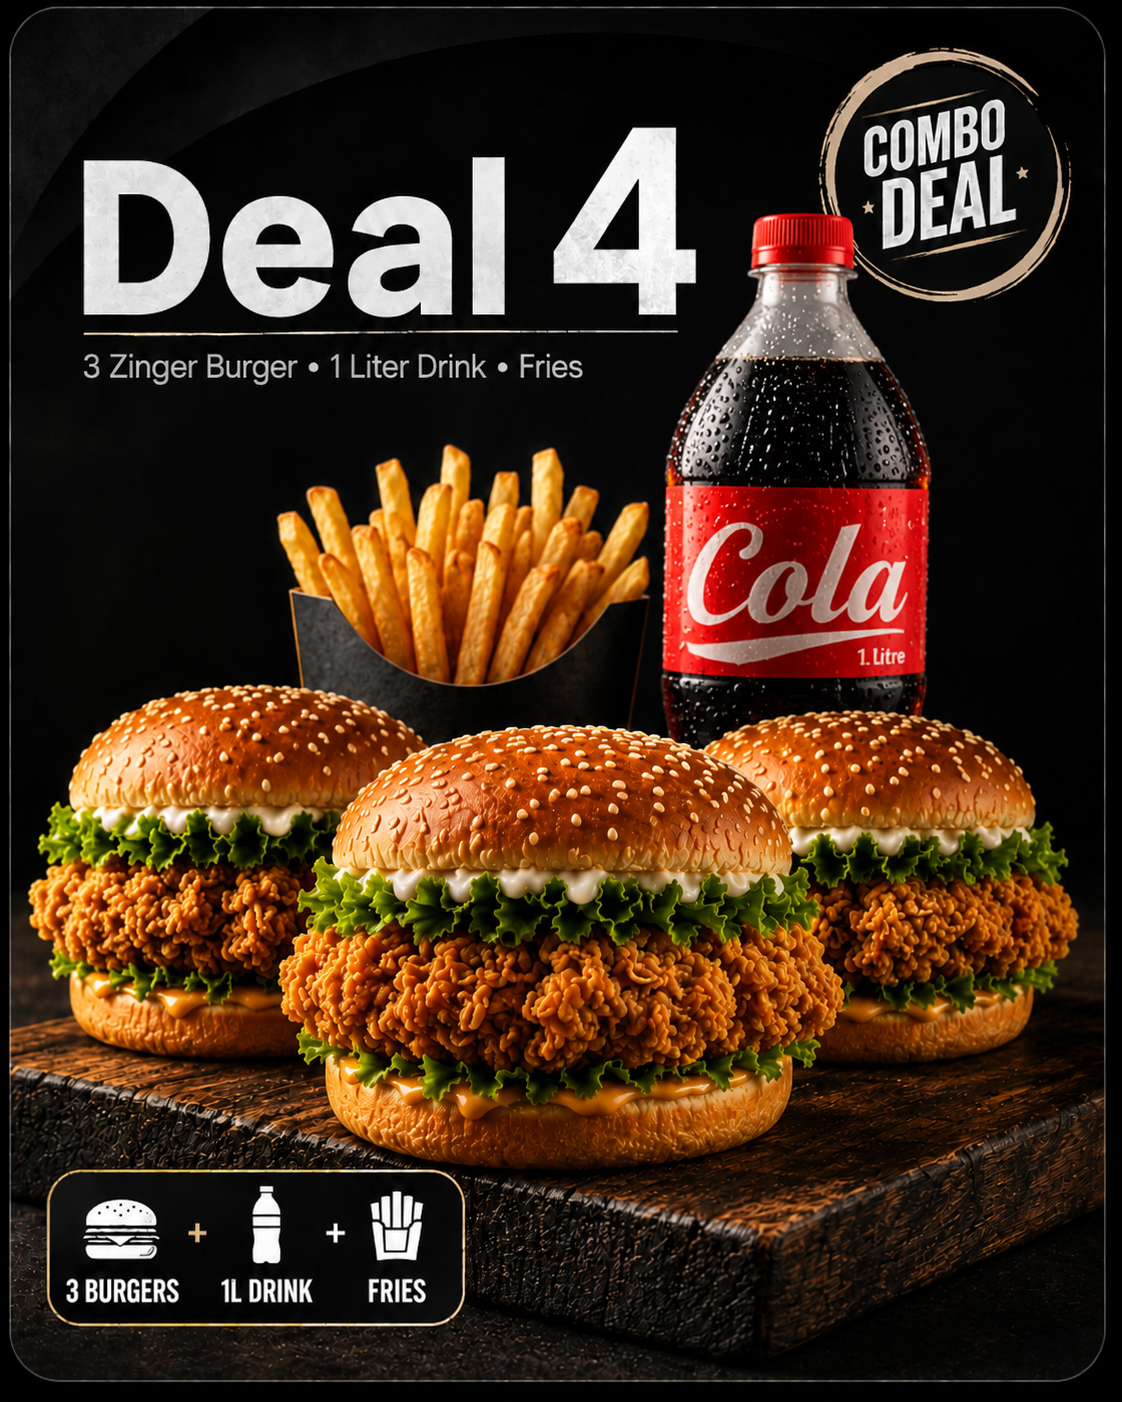
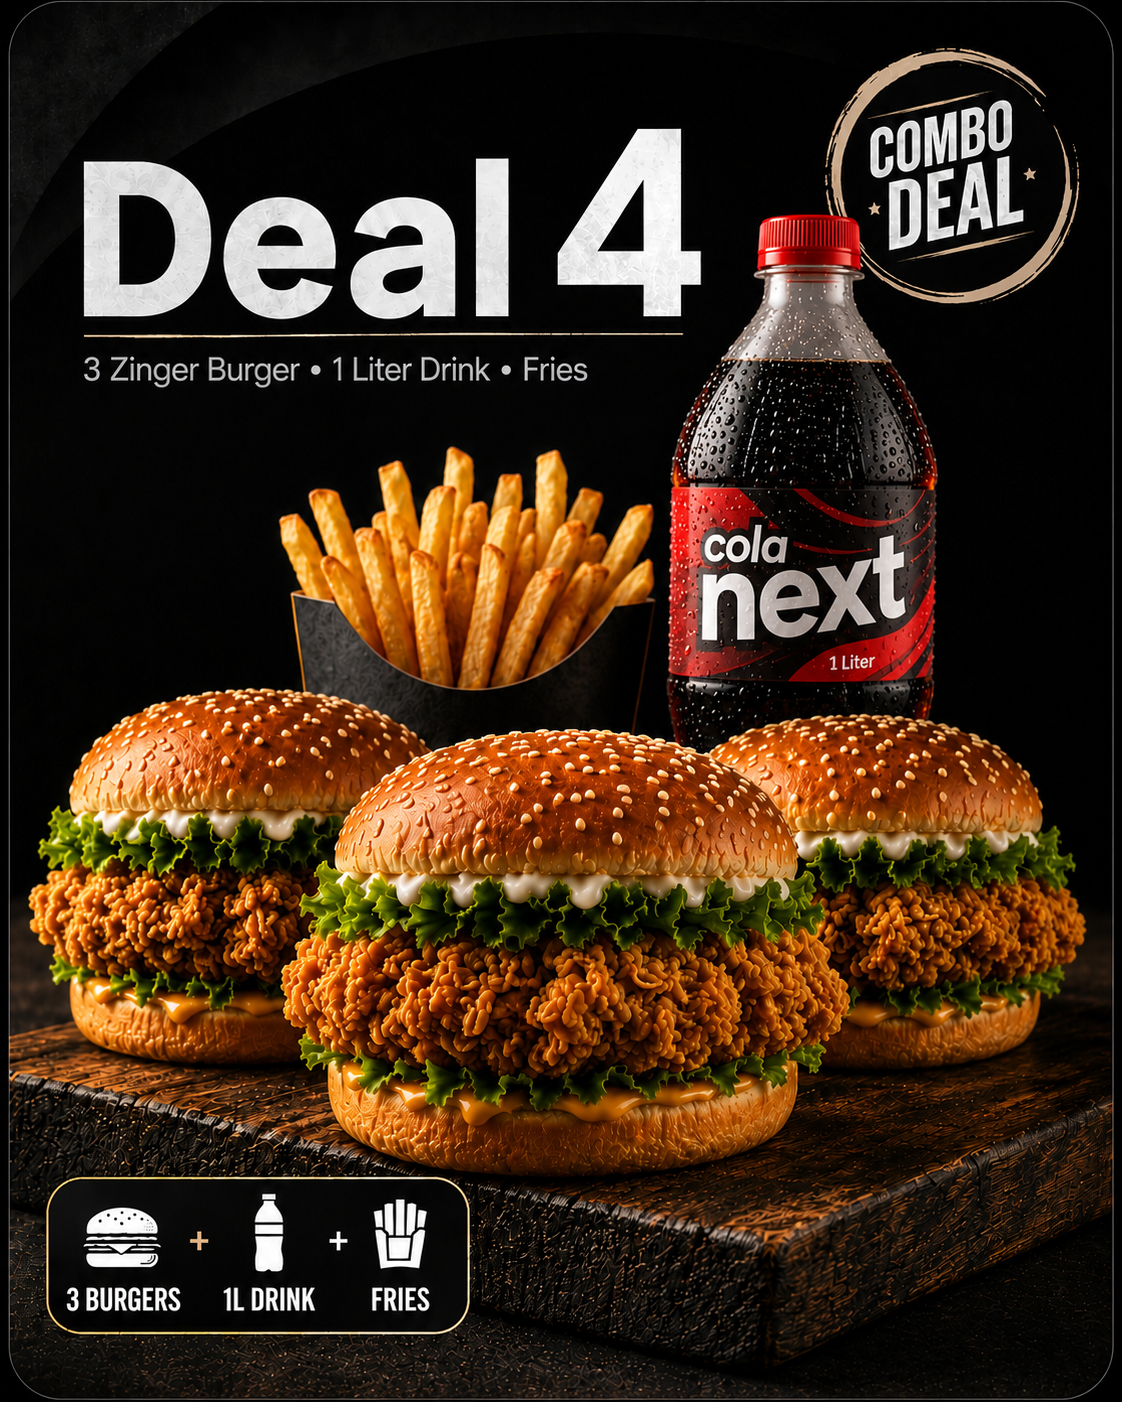
Add Fizzup and Water bottles to Cold Drinks; update deal photos
Fizzup priced the same as Cola Next across all three sizes (80/160/200).
Water Bottle Small Rs. 60, Big Rs. 120. Also picks up updated deal
4/5/6 photos (same filenames, new images).

diff --git a/lib/menu-data.ts b/lib/menu-data.ts
@@ -117,4 +117,9 @@ export const menuItems: MenuItem[] = [
   { id: 59, category: 'Cold Drinks', name: 'Cola Next (Regular)', subtitle: 'کولا نیکسٹ ریگولر', price: 80, image: '/drinks/cola-regular.png' },
   { id: 60, category: 'Cold Drinks', name: 'Cola Next (1 Ltr)', subtitle: 'کولا نیکسٹ 1 لیٹر', price: 160, image: '/drinks/cola-1.png' },
   { id: 61, category: 'Cold Drinks', name: 'Cola Next (1.5 Ltr)', subtitle: 'کولا نیکسٹ 1.5 لیٹر', price: 200, image: '/drinks/cola-1.5.png' },
+  { id: 68, category: 'Cold Drinks', name: 'Fizzup (Regular)', subtitle: 'فزاپ ریگولر', price: 80, image: '/drinks/fizzup-regular.png' },
+  { id: 69, category: 'Cold Drinks', name: 'Fizzup (1 Ltr)', subtitle: 'فزاپ 1 لیٹر', price: 160, image: '/drinks/fizzup-1.png' },
+  { id: 70, category: 'Cold Drinks', name: 'Fizzup (1.5 Ltr)', subtitle: 'فزاپ 1.5 لیٹر', price: 200, image: '/drinks/fizzup-1.5.png' },
+  { id: 71, category: 'Cold Drinks', name: 'Water Bottle (Small)', subtitle: 'واٹر بوتل چھوٹی', price: 60, image: '/drinks/water-small.png' },
+  { id: 72, category: 'Cold Drinks', name: 'Water Bottle (Big)', subtitle: 'واٹر بوتل بڑی', price: 120, image: '/drinks/water-large.png' },
 ]
